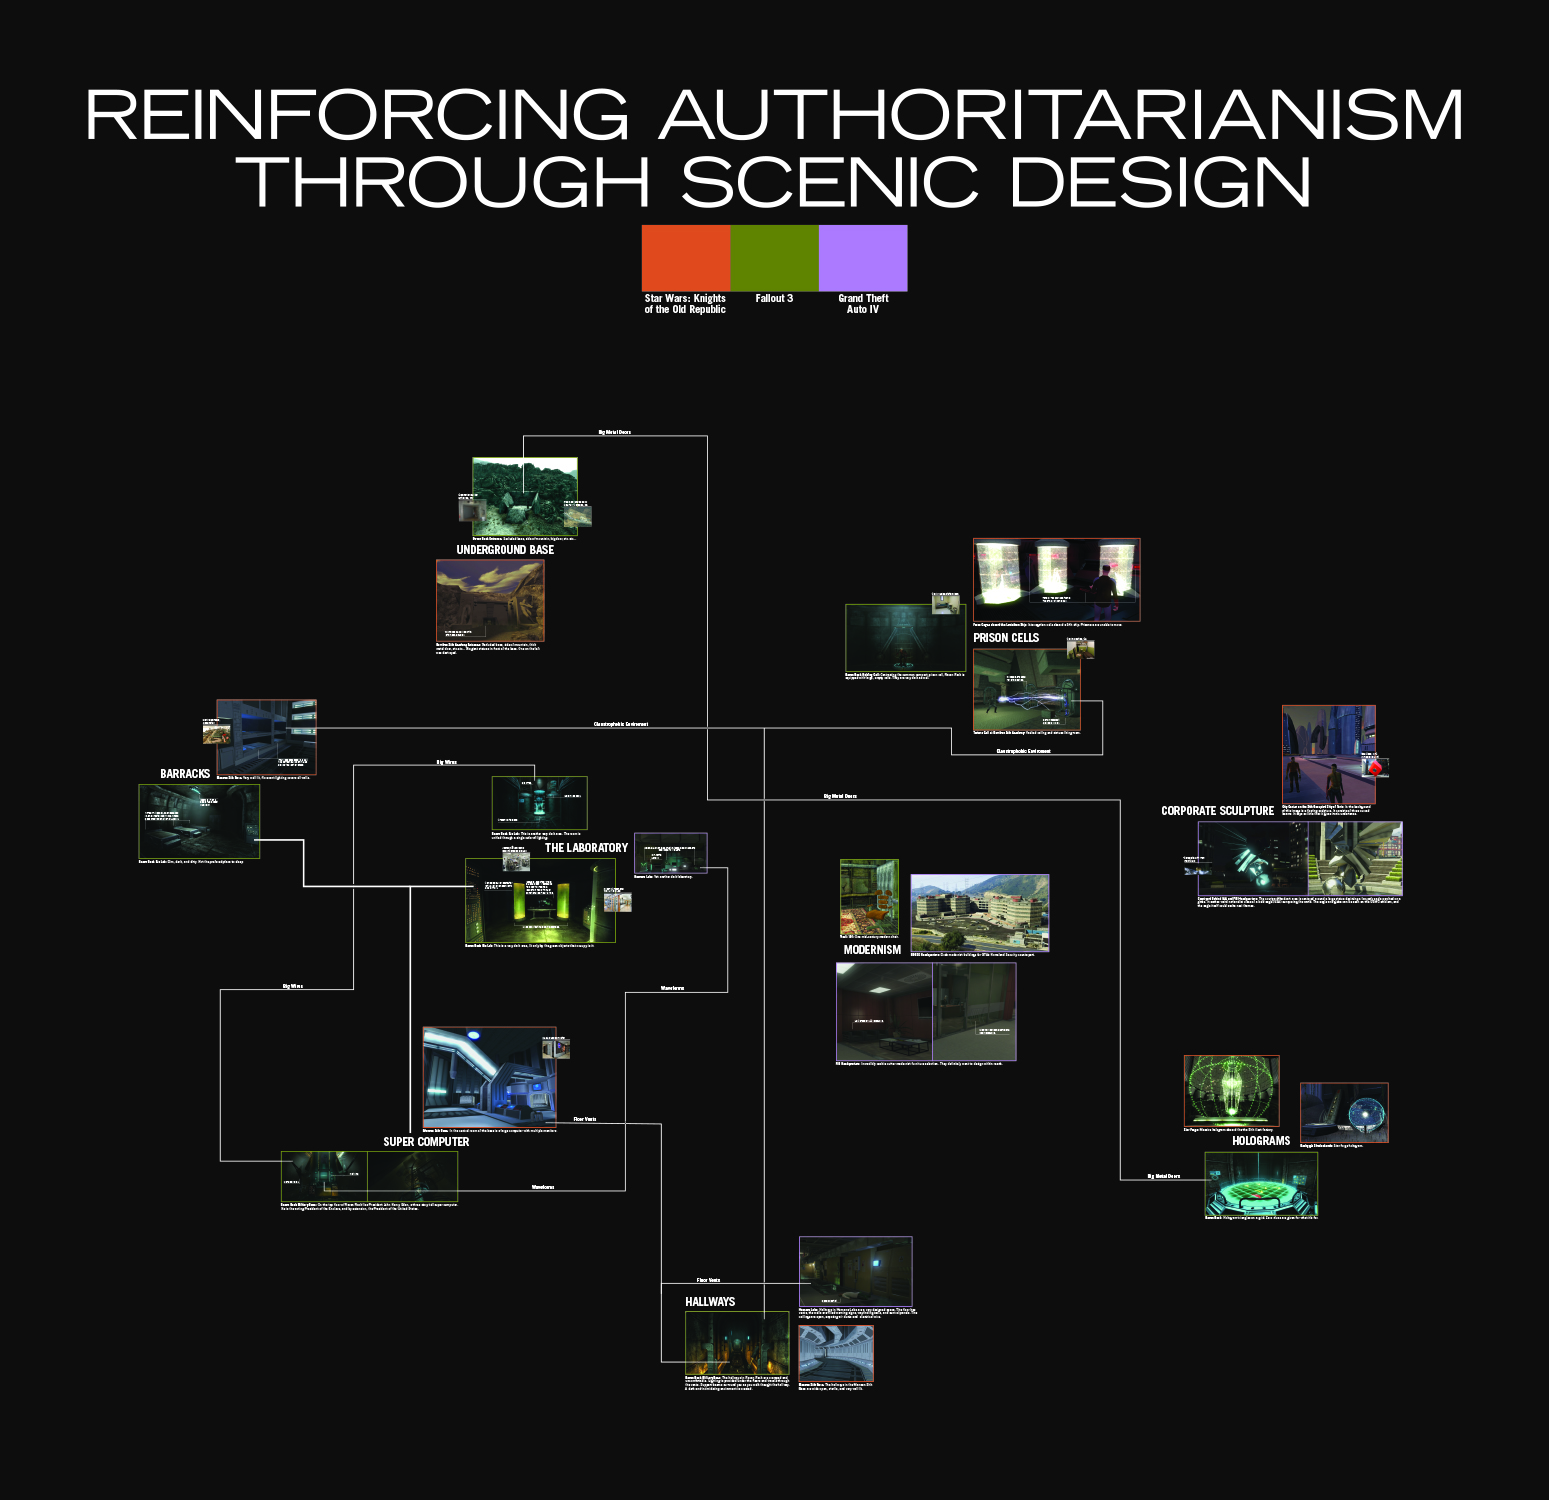
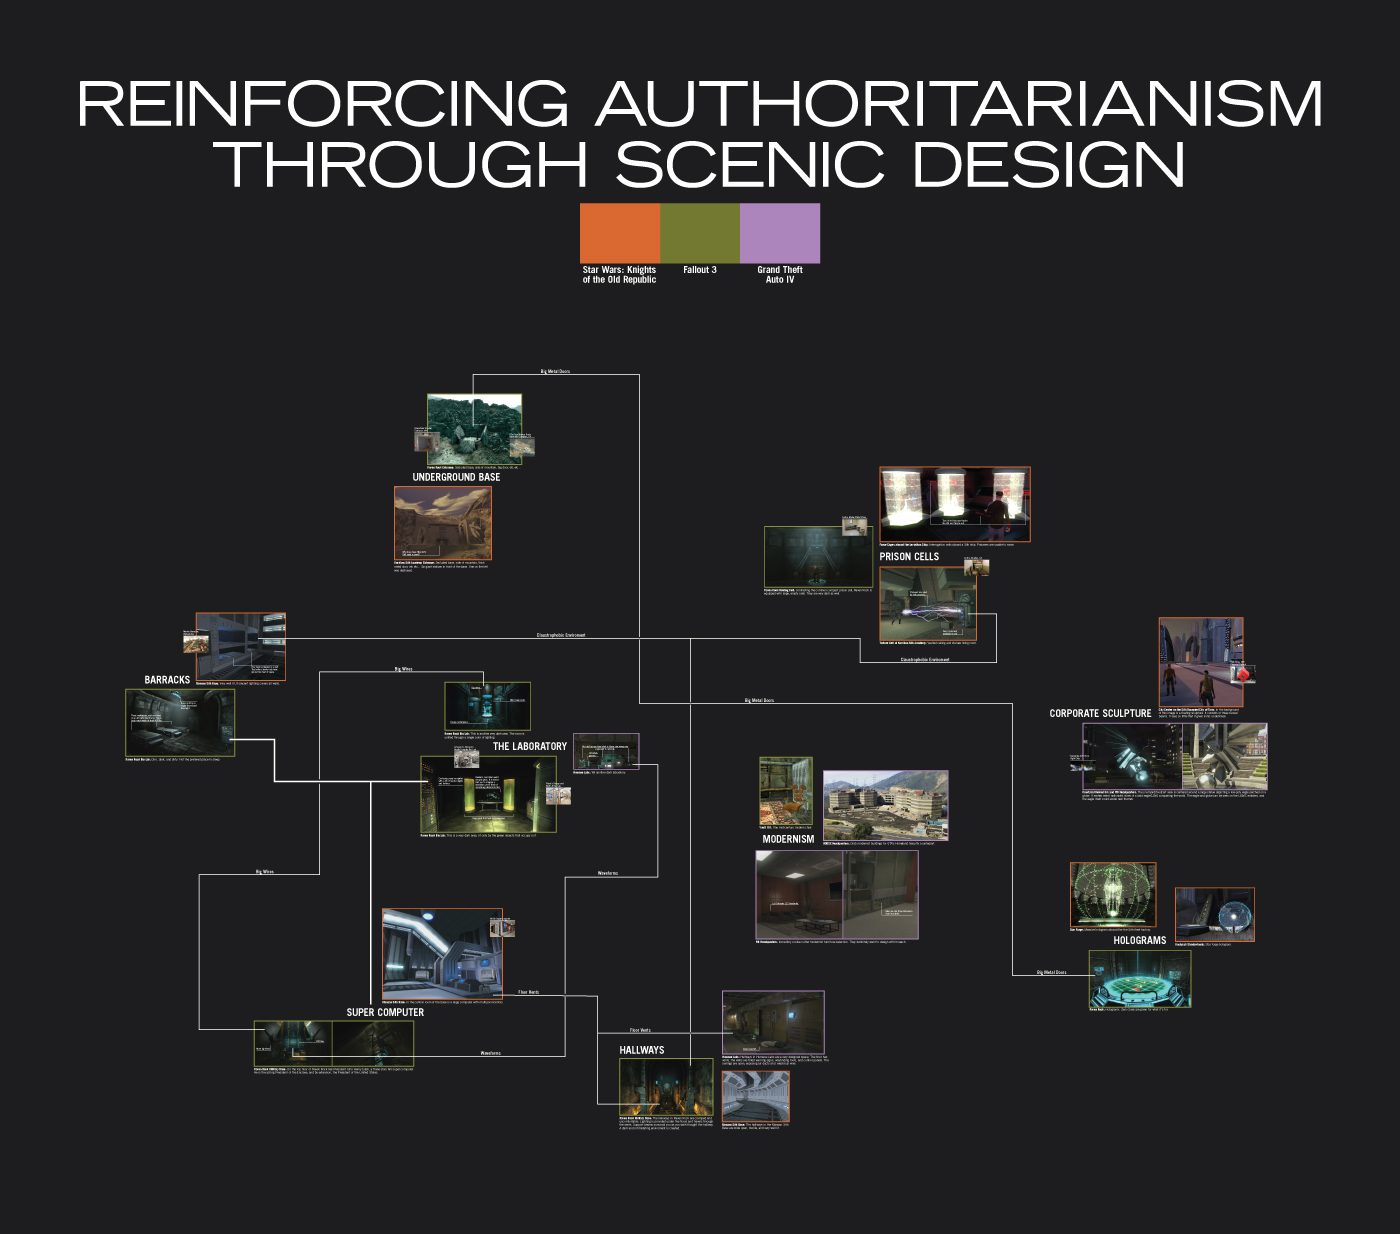
board resize and gallery added

diff --git a/index.html b/index.html
@@ -42,22 +42,23 @@
     <br><br>
     I bought a capture card, a device that lets you take photos and videos of your TV screen while playing games. I began taking photos within each game. In GTA, I took photos using my character's smart phone. In Fallout 3 and KotOR I took photos in the games' first person mode. Over 250 photos have been taken so far. A gallery of my some of my favorite photos are below.
     </p> 
-    
+
+<div class="scrollmenu">    
     <img class="cool" src="images/cool/1.jpg">
     <img class="cool" src="images/cool/3.jpg">
     <img class="cool" src="images/cool/4.jpg">
     <img class="cool" src="images/cool/5.jpg">  
     <img class="cool" src="images/cool/6.jpg"> 
     <img class="cool" src="images/cool/7.jpg">
-
-
+</div>
+    
        <hr>
     
     <h2>CONSPIRACY CORKBOARD</h2>
     
         <hr> 
     
-     <p>After organizing my photos, I found several tropes that fit into the "exaggerated and extreme" mentioned in my thesis statement. I compared many of the tropes with their real life or pop-culture counterparts, and also connected the tropes with each other. I then used that information to create the below "Conspiracy Corkboard."</p> 
+     <p>After organizing my photos, I found several tropes that fit into the "exaggerated and extreme" mentioned in my thesis statement. I compared many of the tropes with their real life or pop-culture counterparts, and also connected the tropes with each other. I then used that information to create the below zoomable "Conspiracy Corkboard."</p> 
 
 
    <div id="image-gallery" class="cf">

diff --git a/style.css b/style.css
@@ -81,3 +81,20 @@ p {
 a {
     color: white;
 }
+
+.scrollmenu {
+    overflow: auto;
+    white-space: nowrap;
+    margin-top: -50px;
+    margin-bottom: -50px;
+}
+
+.scrollmenu img {
+    display: inline-block;
+    color: white;
+    text-align: center;
+    padding: 14px;
+    text-decoration: none;
+    height: 600px;
+    margin-right: 200px;
+}
